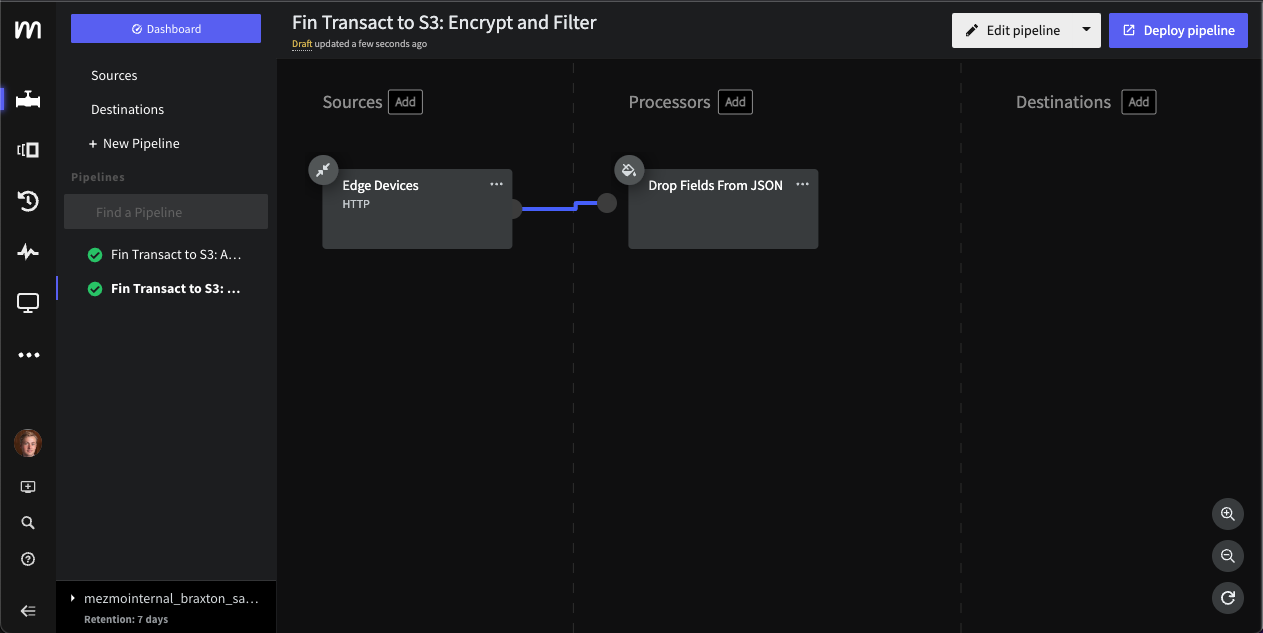
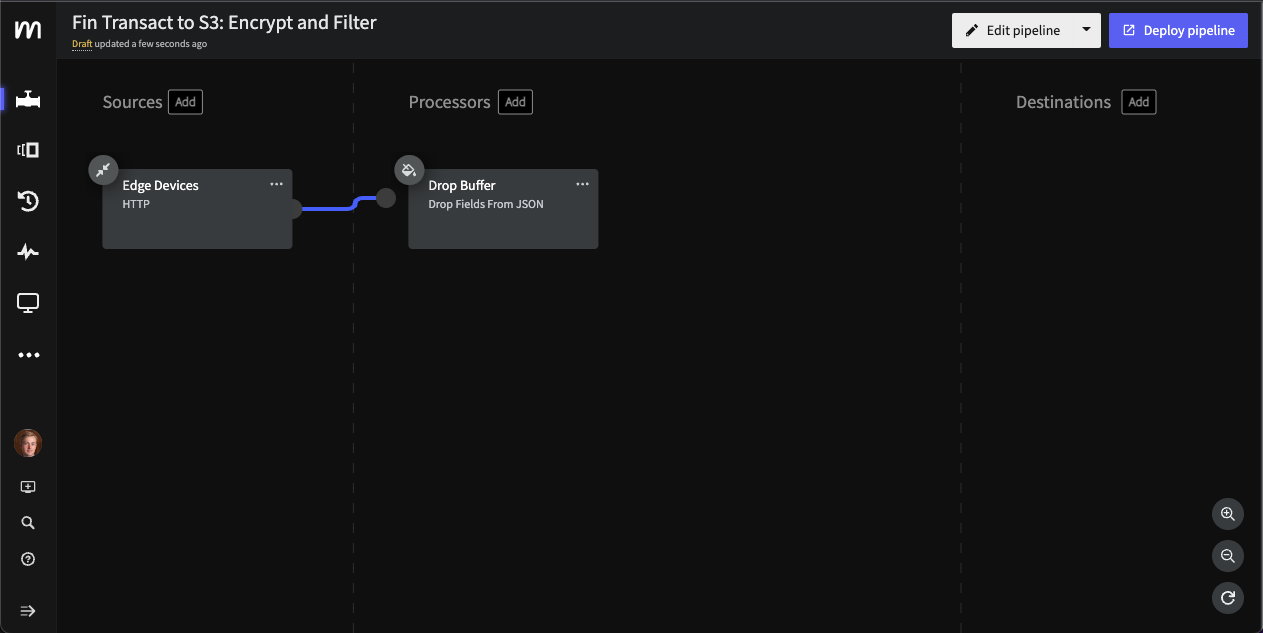
encrypt/route step images added

diff --git a/content/en/transaction-to-s3/docs/processors.md b/content/en/transaction-to-s3/docs/processors.md
@@ -61,9 +61,6 @@ We don't need the buffer, so let's drop it.  We can do this with a simple `drop`
 
 Then connect this to the Source processor by hovering over the Source till you see a gray half circle.  Click and drag to the right edge of the Drop processor.  Release the mouse and things are linked up.  Data will now flow from the Source to the Processor.  Also note that things will rearrange themselves as you go.
 
-**IMAGE OF PARTIALLY LINKED PROCESSORS** -> **IMAGE OF FULLY LINKED PROCESSORS**
-
-
 ![Drop Processor Connection Start](../../images/add-processor_connect-start.png)
 
 ![Drop Processor Connection Finish](../../images/add-processor_connect-finish.png)
@@ -73,31 +70,36 @@ Then connect this to the Source processor by hovering over the Source till you s
 
 Now let's encrypt some sensitive data.  First will be the Location.
 
-Add an `Encrypt Field` processor and select `.device.location`.  For Encryption Method, select `AES-256-CFB` and for Encryption Key, enter a 32 character key.  You can use something like [SITE TO GENERATE KEY](#) to generate a key.
+Add an `Encrypt Field` processor witht the title `Encrypt Location` and select `.device.location`.  For Encryption Method, select `AES-256-CFB` and for Encryption Key, enter a 32 character key.  You can use something like [AllKeysGenerator.com](https://www.allkeysgenerator.com/Random/Security-Encryption-Key-Generator.aspx) to generate a key.
 
-Then every encryption processor needs an Initialization vector.  This will be added to the event itself to allow for decryption down the road.  Let's add `.iv_device_location`.
+Every encryption processor needs an Initialization vector.  This will be added to the event itself to allow for decryption down the road.  Let's add ours as `.iv_device_location`.
 
 Click `Save`.
 
-**IMAGE OF ENCRYPT PROCESSOR**
+![Local Encryption](../../images/add-processor_encrypt-location.png)
 
-Link this processor to the `Drop` processor as you did in the previous step.
+Link this processor to the `Drop Buffer` processor like you did in the previous step.
 
 ## Step 3: Route to filter transaction data
 
-We want to send only the transaction events to S3.  To do this we can use a `route` processor.  Go ahead and add one with the Title "Filter Transaction Data".
+We want to send only the transaction events to S3.  To do this we can use a `Route` processor.  Go ahead and add one with the Title `Route Transaction`.
 
-We could group successful and failed transactions (`transaction.result`) but let's seperate the routes.  To do this, we will create two `outputs`.
+We could group successful and failed transactions (`transaction.result`) but let's seperate the routes.  To do this, we will create two `Outputs`.
 
-For the first, select an IF and enter `.transaction.result` **equals** `success`.  To weed out any anomalies for later analysis, lets also ensure `.transaction.total_price` is **greater_or_equal** to `0` via an *Added Expresion*.
+For the first, give it a name `Transaction Success`, select an IF and enter `.transaction.result` **equals** `success`.  To weed out any anomalies for later analysis, lets also ensure `.transaction.total_price` is **greater_or_equal** to `0` via an *Added Expresion*.
 
-Similarly, for the second output, select *Add Additional Output* and enter `.transaction.result` **equals** `fail` as well as the same `.transaction.total_price` treatment.
+![Route: Success](../../images/add-processor_route-success.png)
 
-The final result should look similar to this
+Similarly, for the second output, select *Add Additional Output* with the name `Transaction Failed` and enter `.transaction.result` **equals** `fail` as well as the same `.transaction.total_price` treatment.
 
-**IMAGE OF FINAL ROUTE**
+![Route: Failed](../../images/add-processor_route-fail.png)
 
-Connect the Location Encrypt processor from Step 2 to the Route processor you just created.
+Connect the `Encrypt Location` processor from Step 2 to the Route processor you just created.
+
+
+![Route: Connected](../../images/add-processor_route-connected.png)
+
+Note that we will leave the Unmatched route untouched for this workshop but there are many things that could be done with this data (send to Log Analytics, store in a separete S3 for long term storage, etc).
 
 ## Step 4: Encrypt the Credit Card Information
 
@@ -109,12 +111,12 @@ Now, let's encrypt each of the Credit Card fields individually.  The fields we w
 * `transaction.cc.cc_name`
 * `transaction.cc.cc_zip`
 
-Since each are unique fields, order doesn't matter so much here.  However, for each of these, add an Encrypt processor with `AES-256-CFB` and connect them up together so you get something similar to below floating in the top of you canvas.
+Since each are unique fields, order doesn't matter so much here.  However, for each of these, add an Encrypt processor with `AES-256-CFB` which should leave you with 5 floating processors like so
 
-**IMAGE OF ENCRYPT STRING**
+![Encrypt CC: Unconnected](../../images/add-processor_encrypt-cc-unconnected.png)
 
-Now, link the fail and success routes to the first processor in this group in parallel.  The Pipeline should now look like
+Now, connect each one sequentially and then link the fail and success routes to the first processor in this group in parallel.  The Pipeline should now look like
 
-**IMAGE OF DROP, ENCRYPT, ROUTE, ENCRYPTS**
+![Encrypt CC: Connected](../../images/add-processor_encrypt-cc-connected.png)
 
 It's time to sink this up to the S3 and start gathering data.

diff --git a/content/en/transaction-to-s3/docs/create-pipeline.md b/content/en/transaction-to-s3/docs/create-pipeline.md
@@ -13,7 +13,7 @@ In order to complete this workshop, you will need a Mezmo account with Pipeline 
 
 Once you have Pipeline enabled, go ahead and [Create a new Pipeline](https://app.mezmo.com/pipelines/pipeline/new).  You will be prompted to name your Pipeline, call it what you will but we will go with `Edge Transaction to S3`.  After creation, you will be taken to the following blank canvas
 
-**BLANK PIPELINE IMAGE**
+![Blank Pipeline](../../images/pipeline_blank.png)
 
 ## Step 2: Run the Simulation
 
